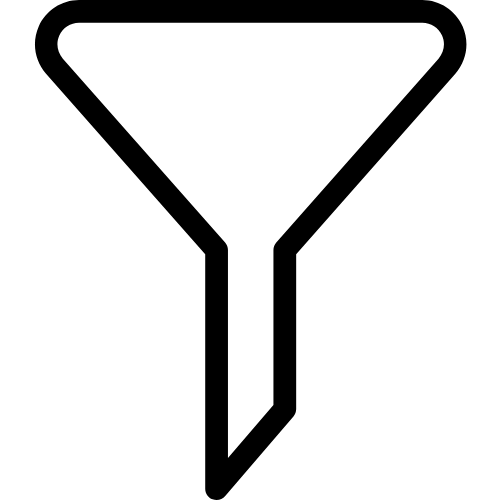
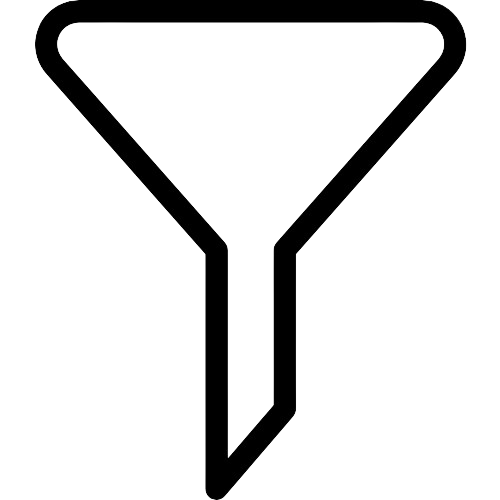
updated, inserted certifications on portfolio

Changed region(s): [[0.42, 0.99, 0.45, 1.0]]

diff --git a/pages/portfolio.html b/pages/portfolio.html
@@ -167,8 +167,7 @@
                         <input type="text" id="search-input" placeholder="Search projects..."
                             class="pl-10 pr-4 py-2 border border-gray-300 rounded-lg focus:outline-none focus:ring-2 focus:ring-secondary-500 focus:border-transparent w-64" />
                         <img src="../images/search.png" alt="Search"
-                            class="absolute left-3 top-1/2 transform -translate-y-1/2 w-4 h-4 text-gray-400"
-                            onerror="this.src='https://images.unsplash.com/photo-1584824486509-112e4181ff6b?q=80&w=2940&auto=format&fit=crop&ixlib=rb-4.0.3&ixid=M3wxMjA3fDB8MHxwaG90by1wYWdlfHx8fGVufDB8fHx8fA%3D%3D'; this.onerror=null;" />
+                            class="absolute left-3 top-1/2 transform -translate-y-1/2 w-4 h-4 text-gray-400" />
                     </div>
                     <button id="reset-filters"
                         class="px-4 py-2 text-text-secondary hover:text-primary transition-colors duration-200">
@@ -193,8 +192,7 @@
                     <!-- Project Image -->
                     <div class="h-96 lg:h-auto overflow-hidden">
                         <img src="https://images.unsplash.com/photo-1551288049-bebda4e38f71?q=80&w=2940&auto=format&fit=crop&ixlib=rb-4.0.3&ixid=M3wxMjA3fDB8MHxwaG90by1wYWdlfHx8fGVufDB8fHx8fA%3D%3D"
-                            alt="Disaster Preparedness Game" class="w-full h-full object-cover"
-                            onerror="this.src='https://images.unsplash.com/photo-1584824486509-112e4181ff6b?q=80&w=2940&auto=format&fit=crop&ixlib=rb-4.0.3&ixid=M3wxMjA3fDB8MHxwaG90by1wYWdlfHx8fGVufDB8fHx8fA%3D%3D'; this.onerror=null;" />
+                            alt="Disaster Preparedness Game" class="w-full h-full object-cover" />
                     </div>
 
                     <!-- Project Details -->
@@ -241,17 +239,13 @@
                         <div class="flex flex-col sm:flex-row gap-4">
                             <button class="btn-primary flex items-center justify-center"
                                 onclick="openProjectModal('disaster-game')">
-                                <img src="https://images.unsplash.com/photo-1460925895917-afdab827c52f?q=80&w=2940&auto=format&fit=crop&ixlib=rb-4.0.3&ixid=M3wxMjA3fDB8MHxwaG90by1wYWdlfHx8fGVufDB8fHx8fA%3D%3D"
-                                    alt="View" class="w-5 h-5 mr-2"
-                                    onerror="this.src='https://images.unsplash.com/photo-1584824486509-112e4181ff6b?q=80&w=2940&auto=format&fit=crop&ixlib=rb-4.0.3&ixid=M3wxMjA3fDB8MHxwaG90by1wYWdlfHx8fGVufDB8fHx8fA%3D%3D'; this.onerror=null;" />
+                                <img src="../images/search.png" alt="View" class="w-5 h-5 mr-2" />
                                 View Case Study
                             </button>
                             <a href="javascript:void(0)"
                                 class="inline-flex items-center justify-center px-6 py-3 border-2 border-primary text-primary font-semibold rounded-lg hover:bg-primary hover:text-white transition-all duration-300">
-                                <img src="https://images.unsplash.com/photo-1618401471353-b98afee0b2eb?q=80&w=2940&auto=format&fit=crop&ixlib=rb-4.0.3&ixid=M3wxMjA3fDB8MHxwaG90by1wYWdlfHx8fGVufDB8fHx8fA%3D%3D"
-                                    alt="GitHub" class="w-5 h-5 mr-2"
-                                    onerror="this.src='https://images.unsplash.com/photo-1584824486509-112e4181ff6b?q=80&w=2940&auto=format&fit=crop&ixlib=rb-4.0.3&ixid=M3wxMjA3fDB8MHxwaG90by1wYWdlfHx8fGVufDB8fHx8fA%3D%3D'; this.onerror=null;" />
-                                View on GitHub
+                                <img src="../images/search.png" alt="GitHub" class="w-5 h-5 mr-2" />
+                                View on Facebook
                             </a>
                         </div>
                     </div>
@@ -274,8 +268,7 @@
                     data-tech="unity,csharp" data-type="game" data-impact="education">
                     <div class="relative h-48 overflow-hidden">
                         <img src="https://images.unsplash.com/photo-1551288049-bebda4e38f71?q=80&w=2940&auto=format&fit=crop&ixlib=rb-4.0.3&ixid=M3wxMjA3fDB8MHxwaG90by1wYWdlfHx8fGVufDB8fHx8fA%3D%3D"
-                            alt="Disaster Preparedness Game" class="w-full h-full object-cover"
-                            onerror="this.src='https://images.unsplash.com/photo-1584824486509-112e4181ff6b?q=80&w=2940&auto=format&fit=crop&ixlib=rb-4.0.3&ixid=M3wxMjA3fDB8MHxwaG90by1wYWdlfHx8fGVufDB8fHx8fA%3D%3D'; this.onerror=null;" />
+                            alt="Disaster Preparedness Game" class="w-full h-full object-cover" />
                         <div class="absolute top-4 left-4">
                             <span class="px-2 py-1 bg-accent text-white rounded-full text-xs font-medium">Award
                                 Winner</span>
@@ -306,9 +299,7 @@
                                 <span class="font-medium text-accent">5,000+</span> Users Trained
                             </div>
                             <div class="flex items-center space-x-2">
-                                <img src="https://images.unsplash.com/photo-1618401471353-b98afee0b2eb?q=80&w=2940&auto=format&fit=crop&ixlib=rb-4.0.3&ixid=M3wxMjA3fDB8MHxwaG90by1wYWdlfHx8fGVufDB8fHx8fA%3D%3D"
-                                    alt="GitHub" class="w-4 h-4"
-                                    onerror="this.src='https://images.unsplash.com/photo-1584824486509-112e4181ff6b?q=80&w=2940&auto=format&fit=crop&ixlib=rb-4.0.3&ixid=M3wxMjA3fDB8MHxwaG90by1wYWdlfHx8fGVufDB8fHx8fA%3D%3D'; this.onerror=null;" />
+                                <img src="" alt="GitHub" class="w-4 h-4" />
                                 <span class="text-sm text-text-secondary">★ 47</span>
                             </div>
                         </div>
@@ -320,8 +311,7 @@
                     data-tech="php,mysql,bootstrap" data-type="web" data-impact="business">
                     <div class="relative h-48 overflow-hidden">
                         <img src="https://images.unsplash.com/photo-1541746972996-4e0b0f93e586?q=80&w=2940&auto=format&fit=crop&ixlib=rb-4.0.3&ixid=M3wxMjA3fDB8MHxwaG90by1wYWdlfHx8fGVufDB8fHx8fA%3D%3D"
-                            alt="University Management System" class="w-full h-full object-cover"
-                            onerror="this.src='https://images.unsplash.com/photo-1584824486509-112e4181ff6b?q=80&w=2940&auto=format&fit=crop&ixlib=rb-4.0.3&ixid=M3wxMjA3fDB8MHxwaG90by1wYWdlfHx8fGVufDB8fHx8fA%3D%3D'; this.onerror=null;" />
+                            alt="University Management System" class="w-full h-full object-cover" />
                         <div
                             class="absolute inset-0 bg-gradient-to-t from-black/50 to-transparent opacity-0 hover:opacity-100 transition-opacity duration-300">
                             <div class="absolute bottom-4 left-4 right-4">
@@ -348,9 +338,7 @@
                                 <span class="font-medium text-accent">2,500+</span> Students Managed
                             </div>
                             <div class="flex items-center space-x-2">
-                                <img src="https://images.unsplash.com/photo-1618401471353-b98afee0b2eb?q=80&w=2940&auto=format&fit=crop&ixlib=rb-4.0.3&ixid=M3wxMjA3fDB8MHxwaG90by1wYWdlfHx8fGVufDB8fHx8fA%3D%3D"
-                                    alt="GitHub" class="w-4 h-4"
-                                    onerror="this.src='https://images.unsplash.com/photo-1584824486509-112e4181ff6b?q=80&w=2940&auto=format&fit=crop&ixlib=rb-4.0.3&ixid=M3wxMjA3fDB8MHxwaG90by1wYWdlfHx8fGVufDB8fHx8fA%3D%3D'; this.onerror=null;" />
+                                <img src="" alt="GitHub" class="w-4 h-4" />
                                 <span class="text-sm text-text-secondary">★ 32</span>
                             </div>
                         </div>
@@ -361,9 +349,7 @@
                 <div class="project-card bg-white rounded-lg shadow-subtle hover:shadow-strong transition-all duration-300 overflow-hidden"
                     data-tech="javascript,php,mysql" data-type="research" data-impact="education">
                     <div class="relative h-48 overflow-hidden">
-                        <img src="https://images.unsplash.com/photo-1434030216411-0b793f4b4173?q=80&w=2940&auto=format&fit=crop&ixlib=rb-4.0.3&ixid=M3wxMjA3fDB8MHxwaG90by1wYWdlfHx8fGVufDB8fHx8fA%3D%3D"
-                            alt="Research Thesis" class="w-full h-full object-cover"
-                            onerror="this.src='https://images.unsplash.com/photo-1584824486509-112e4181ff6b?q=80&w=2940&auto=format&fit=crop&ixlib=rb-4.0.3&ixid=M3wxMjA3fDB8MHxwaG90by1wYWdlfHx8fGVufDB8fHx8fA%3D%3D'; this.onerror=null;" />
+                        <img src="" alt="Research Thesis" class="w-full h-full object-cover" />
                         <div class="absolute top-4 left-4">
                             <span class="px-2 py-1 bg-accent text-white rounded-full text-xs font-medium">Best
                                 Thesis</span>
@@ -394,9 +380,7 @@
                                 <span class="font-medium text-accent">Best Thesis</span> Award Winner
                             </div>
                             <div class="flex items-center space-x-2">
-                                <img src="https://images.unsplash.com/photo-1586281380349-632531db7ed4?q=80&w=2940&auto=format&fit=crop&ixlib=rb-4.0.3&ixid=M3wxMjA3fDB8MHxwaG90by1wYWdlfHx8fGVufDB8fHx8fA%3D%3D"
-                                    alt="Document" class="w-4 h-4"
-                                    onerror="this.src='https://images.unsplash.com/photo-1584824486509-112e4181ff6b?q=80&w=2940&auto=format&fit=crop&ixlib=rb-4.0.3&ixid=M3wxMjA3fDB8MHxwaG90by1wYWdlfHx8fGVufDB8fHx8fA%3D%3D'; this.onerror=null;" />
+                                <img src="" alt="Document" class="w-4 h-4" />
                                 <span class="text-sm text-text-secondary">PDF</span>
                             </div>
                         </div>
@@ -408,8 +392,7 @@
                     data-tech="javascript,php,bootstrap" data-type="web" data-impact="community">
                     <div class="relative h-48 overflow-hidden">
                         <img src="https://images.unsplash.com/photo-1517245386807-bb43f82c33c4?q=80&w=2940&auto=format&fit=crop&ixlib=rb-4.0.3&ixid=M3wxMjA3fDB8MHxwaG90by1wYWdlfHx8fGVufDB8fHx8fA%3D%3D"
-                            alt="Community Workshop Platform" class="w-full h-full object-cover"
-                            onerror="this.src='https://images.unsplash.com/photo-1584824486509-112e4181ff6b?q=80&w=2940&auto=format&fit=crop&ixlib=rb-4.0.3&ixid=M3wxMjA3fDB8MHxwaG90by1wYWdlfHx8fGVufDB8fHx8fA%3D%3D'; this.onerror=null;" />
+                            alt="Community Workshop Platform" class="w-full h-full object-cover" />
                         <div
                             class="absolute inset-0 bg-gradient-to-t from-black/50 to-transparent opacity-0 hover:opacity-100 transition-opacity duration-300">
                             <div class="absolute bottom-4 left-4 right-4">
@@ -436,9 +419,7 @@
                                 <span class="font-medium text-accent">500+</span> Participants
                             </div>
                             <div class="flex items-center space-x-2">
-                                <img src="https://images.unsplash.com/photo-1618401471353-b98afee0b2eb?q=80&w=2940&auto=format&fit=crop&ixlib=rb-4.0.3&ixid=M3wxMjA3fDB8MHxwaG90by1wYWdlfHx8fGVufDB8fHx8fA%3D%3D"
-                                    alt="GitHub" class="w-4 h-4"
-                                    onerror="this.src='https://images.unsplash.com/photo-1584824486509-112e4181ff6b?q=80&w=2940&auto=format&fit=crop&ixlib=rb-4.0.3&ixid=M3wxMjA3fDB8MHxwaG90by1wYWdlfHx8fGVufDB8fHx8fA%3D%3D'; this.onerror=null;" />
+                                <img src="" alt="GitHub" class="w-4 h-4" />
                                 <span class="text-sm text-text-secondary">★ 28</span>
                             </div>
                         </div>
@@ -450,8 +431,7 @@
                     data-tech="php,mysql,javascript" data-type="system" data-impact="business">
                     <div class="relative h-48 overflow-hidden">
                         <img src="https://images.unsplash.com/photo-1460925895917-afdab827c52f?q=80&w=2940&auto=format&fit=crop&ixlib=rb-4.0.3&ixid=M3wxMjA3fDB8MHxwaG90by1wYWdlfHx8fGVufDB8fHx8fA%3D%3D"
-                            alt="Inventory Management System" class="w-full h-full object-cover"
-                            onerror="this.src='https://images.unsplash.com/photo-1584824486509-112e4181ff6b?q=80&w=2940&auto=format&fit=crop&ixlib=rb-4.0.3&ixid=M3wxMjA3fDB8MHxwaG90by1wYWdlfHx8fGVufDB8fHx8fA%3D%3D'; this.onerror=null;" />
+                            alt="Inventory Management System" class="w-full h-full object-cover" />
                         <div
                             class="absolute inset-0 bg-gradient-to-t from-black/50 to-transparent opacity-0 hover:opacity-100 transition-opacity duration-300">
                             <div class="absolute bottom-4 left-4 right-4">
@@ -478,9 +458,7 @@
                                 <span class="font-medium text-accent">85%</span> Efficiency Gain
                             </div>
                             <div class="flex items-center space-x-2">
-                                <img src="https://images.unsplash.com/photo-1618401471353-b98afee0b2eb?q=80&w=2940&auto=format&fit=crop&ixlib=rb-4.0.3&ixid=M3wxMjA3fDB8MHxwaG90by1wYWdlfHx8fGVufDB8fHx8fA%3D%3D"
-                                    alt="GitHub" class="w-4 h-4"
-                                    onerror="this.src='https://images.unsplash.com/photo-1584824486509-112e4181ff6b?q=80&w=2940&auto=format&fit=crop&ixlib=rb-4.0.3&ixid=M3wxMjA3fDB8MHxwaG90by1wYWdlfHx8fGVufDB8fHx8fA%3D%3D'; this.onerror=null;" />
+                                <img src="" alt="GitHub" class="w-4 h-4" />
                                 <span class="text-sm text-text-secondary">★ 19</span>
                             </div>
                         </div>
@@ -492,8 +470,7 @@
                     data-tech="javascript,bootstrap" data-type="web" data-impact="education">
                     <div class="relative h-48 overflow-hidden">
                         <img src="https://images.unsplash.com/photo-1516321318423-f06f85e504b3?q=80&w=2940&auto=format&fit=crop&ixlib=rb-4.0.3&ixid=M3wxMjA3fDB8MHxwaG90by1wYWdlfHx8fGVufDB8fHx8fA%3D%3D"
-                            alt="Student Portal" class="w-full h-full object-cover"
-                            onerror="this.src='https://images.unsplash.com/photo-1584824486509-112e4181ff6b?q=80&w=2940&auto=format&fit=crop&ixlib=rb-4.0.3&ixid=M3wxMjA3fDB8MHxwaG90by1wYWdlfHx8fGVufDB8fHx8fA%3D%3D'; this.onerror=null;" />
+                            alt="Student Portal" class="w-full h-full object-cover" />
                         <div
                             class="absolute inset-0 bg-gradient-to-t from-black/50 to-transparent opacity-0 hover:opacity-100 transition-opacity duration-300">
                             <div class="absolute bottom-4 left-4 right-4">
@@ -521,9 +498,7 @@
                                 <span class="font-medium text-accent">1,200+</span> Active Users
                             </div>
                             <div class="flex items-center space-x-2">
-                                <img src="https://images.unsplash.com/photo-1618401471353-b98afee0b2eb?q=80&w=2940&auto=format&fit=crop&ixlib=rb-4.0.3&ixid=M3wxMjA3fDB8MHxwaG90by1wYWdlfHx8fGVufDB8fHx8fA%3D%3D"
-                                    alt="GitHub" class="w-4 h-4"
-                                    onerror="this.src='https://images.unsplash.com/photo-1584824486509-112e4181ff6b?q=80&w=2940&auto=format&fit=crop&ixlib=rb-4.0.3&ixid=M3wxMjA3fDB8MHxwaG90by1wYWdlfHx8fGVufDB8fHx8fA%3D%3D'; this.onerror=null;" />
+                                <img src="" alt="GitHub" class="w-4 h-4" />
                                 <span class="text-sm text-text-secondary">★ 35</span>
                             </div>
                         </div>
@@ -536,6 +511,180 @@
                 <button id="load-more-btn" class="btn-secondary">
                     Load More Projects
                 </button>
+            </div>
+
+        </div>
+    </section>
+    <!-- Verified Certifications Carousel -->
+    <section class="py-20 bg-gradient-to-br">
+        <div class="max-w-7xl mx-auto px-4 sm:px-6 lg:px-8">
+            <div class="text-center mb-16">
+                <h2 class="text-3xl lg:text-4xl font-bold text-primary mb-4">Verified Certifications</h2>
+                <p class="text-xl text-text-secondary">
+                    A curated collection of certifications from 2024 to 2025 earned through IBM, Microsoft, Cisco, and
+                    Udemy. These credentials span artificial intelligence, data science, cloud platforms, networking,
+                    software design, and programming—demonstrating a strong foundation in full-stack development and
+                    systems thinking.
+                </p>
+            </div>
+
+            <div class="grid grid-cols-1 sm:grid-cols-2 lg:grid-cols-3 gap-8">
+
+                <!-- Artificial Intelligence Fundamentals -->
+                <div class="bg-white p-6 rounded-lg shadow-md">
+                    <img src="../images/Certificate Badges/1.png" alt="Artificial Intelligence Fundamentals"
+                        class="w-full h-40 object-contain mb-4">
+                    <h3 class="text-lg font-semibold text-primary">Artificial Intelligence Fundamentals</h3>
+                    <p class="text-text-secondary mb-4"><strong>IBM (2025)</strong><br>
+                        Completed foundational training in Artificial Intelligence, covering key concepts in machine
+                        learning, neural networks, and real-world AI applications using Python.
+                    </p>
+                    <a href="https://www.credly.com/badges/3ef1b84d-3642-4f7e-acfb-86f8d4d5f89b" target="_blank"
+                        class="text-sm text-accent font-semibold hover:underline">View Credential</a>
+                </div>
+
+                <!-- Python for Data Science -->
+                <div class="bg-white p-6 rounded-lg shadow-md">
+                    <img src="../images/Certificate Badges/2.png" alt="Python for Data Science"
+                        class="w-full h-40 object-contain mb-4">
+                    <h3 class="text-lg font-semibold text-primary">Python for Data Science</h3>
+                    <p class="text-text-secondary mb-4"><strong>IBM (2025)</strong><br>
+                        Explored essential Python techniques for analyzing and visualizing data using Pandas, NumPy, and
+                        Matplotlib. Built a solid base for data-driven decision-making.
+                    </p>
+                    <a href="https://www.credly.com/badges/a2aa96d8-6492-49aa-a7ec-0343f9e32243" target="_blank"
+                        class="text-sm text-accent font-semibold hover:underline">View Credential</a>
+                </div>
+
+                <!-- Agile Explorer -->
+                <div class="bg-white p-6 rounded-lg shadow-md">
+                    <img src="../images/Certificate Badges/3.png" alt="Agile Explorer"
+                        class="w-full h-40 object-contain mb-4">
+                    <h3 class="text-lg font-semibold text-primary">Agile Explorer</h3>
+                    <p class="text-text-secondary mb-4"><strong>IBM (2025)</strong><br>
+                        Learned Agile development principles, Scrum methodology, and iterative delivery practices.
+                        Reinforced my ability to collaborate and deliver continuously.
+                    </p>
+                    <a href="https://www.credly.com/badges/b00edf45-3fbc-4b5c-aa83-04c79acd73f6" target="_blank"
+                        class="text-sm text-accent font-semibold hover:underline">View Credential</a>
+                </div>
+
+                <!-- User Experience Design Fundamentals -->
+                <div class="bg-white p-6 rounded-lg shadow-md">
+                    <img src="../images/Certificate Badges/4.png" alt="User Experience Design Fundamentals"
+                        class="w-full h-40 object-contain mb-4">
+                    <h3 class="text-lg font-semibold text-primary">User Experience Design Fundamentals</h3>
+                    <p class="text-text-secondary mb-4"><strong>IBM (2025)</strong><br>
+                        Gained practical skills in UX design, user-centered development, and usability testing to craft
+                        accessible, user-friendly digital experiences.
+                    </p>
+                    <a href="https://www.credly.com/badges/54231dc6-a438-4da7-a32d-5997fead5080" target="_blank"
+                        class="text-sm text-accent font-semibold hover:underline">View Credential</a>
+                </div>
+
+                <!-- Big Data Foundations - Level 1 -->
+                <div class="bg-white p-6 rounded-lg shadow-md">
+                    <img src="../images/Certificate Badges/5.png" alt="Big Data Foundations"
+                        class="w-full h-40 object-contain mb-4">
+                    <h3 class="text-lg font-semibold text-primary">Big Data Foundations - Level 1</h3>
+                    <p class="text-text-secondary mb-4"><strong>IBM (2024)</strong><br>
+                        Introduced to the Big Data ecosystem, including Hadoop and Spark. Focused on managing and
+                        extracting value from large-scale datasets.
+                    </p>
+                    <a href="https://www.credly.com/badges/5f9efc88-897f-40dd-a8a3-737d36266ffe" target="_blank"
+                        class="text-sm text-accent font-semibold hover:underline">View Credential</a>
+                </div>
+
+                <!-- Networking Basics -->
+                <div class="bg-white p-6 rounded-lg shadow-md">
+                    <img src="../images/Certificate Badges/6.png" alt="Networking Basics"
+                        class="w-full h-40 object-contain mb-4">
+                    <h3 class="text-lg font-semibold text-primary">Networking Basics</h3>
+                    <p class="text-text-secondary mb-4"><strong>Cisco (2024)</strong><br>
+                        Covered fundamentals of networking, including IP addressing, protocols, routing, and switching.
+                        Strengthened understanding of digital communication.
+                    </p>
+                    <a href="https://www.credly.com/badges/e15a9d9e-5d5c-4505-9dc3-11e54a8ef6de" target="_blank"
+                        class="text-sm text-accent font-semibold hover:underline">View Credential</a>
+                </div>
+
+                <!-- AZ-900 Microsoft Azure Fundamentals -->
+                <div class="bg-white p-6 rounded-lg shadow-md">
+                    <img src="../images/Certificate Badges/7.png" alt="AZ-900 Azure Fundamentals"
+                        class="w-full h-40 object-contain mb-4">
+                    <h3 class="text-lg font-semibold text-primary">AZ-900: Microsoft Azure Fundamentals</h3>
+                    <p class="text-text-secondary mb-4"><strong>Microsoft (2024)</strong><br>
+                        Built cloud fluency in core Azure services, security, pricing, and deployment models. Prepared
+                        to build cloud-native and hybrid applications.
+                    </p>
+                    <a href="https://www.credly.com/badges/99ec1e0d-2bd5-458a-9d72-ad1e3e510586" target="_blank"
+                        class="text-sm text-accent font-semibold hover:underline">View Credential</a>
+                </div>
+
+                <!-- Data Structures and Algorithms in Java -->
+                <div class="bg-white p-6 rounded-lg shadow-md">
+                    <img src="../images/Certificate Badges/8.png" alt="Data Structures and Algorithms in Java"
+                        class="w-full h-40 object-contain mb-4">
+                    <h3 class="text-lg font-semibold text-primary">Intro to Data Structures & Algorithms in Java</h3>
+                    <p class="text-text-secondary mb-4"><strong>Udemy (2024)</strong><br>
+                        Mastered key data structures and algorithmic patterns using Java. Improved problem-solving and
+                        coding interview readiness.
+                    </p>
+                    <a href="https://www.udemy.com/certificate/UC-d40e4aee-4fda-49b9-8688-8f1dbdf1b4e8/" target="_blank"
+                        class="text-sm text-accent font-semibold hover:underline">View Credential</a>
+                </div>
+
+                <!-- OOP in Java -->
+                <div class="bg-white p-6 rounded-lg shadow-md">
+                    <img src="../images/Certificate Badges/9.png" alt="Object-Oriented Programming in Java"
+                        class="w-full h-40 object-contain mb-4">
+                    <h3 class="text-lg font-semibold text-primary">Object-Oriented Programming in Java</h3>
+                    <p class="text-text-secondary mb-4"><strong>Udemy (2024)</strong><br>
+                        Learned the foundations of OOP: encapsulation, inheritance, abstraction, and polymorphism.
+                        Applied these in structured Java development.
+                    </p>
+                    <a href="https://www.udemy.com/certificate/UC-8f2c41e2-301c-495c-b890-86d866cca215/" target="_blank"
+                        class="text-sm text-accent font-semibold hover:underline">View Credential</a>
+                </div>
+
+                <!-- UML and Object-Oriented Design -->
+                <div class="bg-white p-6 rounded-lg shadow-md">
+                    <img src="../images/Certificate Badges/10.png" alt="UML and Object-Oriented Design"
+                        class="w-full h-40 object-contain mb-4">
+                    <h3 class="text-lg font-semibold text-primary">UML and Object-Oriented Design</h3>
+                    <p class="text-text-secondary mb-4"><strong>Udemy (2024)</strong><br>
+                        Learned to create UML diagrams like use case, class, and sequence diagrams. Modeled system
+                        architecture using OOP principles.
+                    </p>
+                    <a href="https://www.udemy.com/certificate/UC-3804bd43-45d9-4db2-80bb-512364e3b9e2/" target="_blank"
+                        class="text-sm text-accent font-semibold hover:underline">View Credential</a>
+                </div>
+
+                <!-- SQL with MySQL -->
+                <div class="bg-white p-6 rounded-lg shadow-md">
+                    <img src="../images/Certificate Badges/11.png" alt="SQL with MySQL" class="w-full h-40 object-contain mb-4">
+                    <h3 class="text-lg font-semibold text-primary">SQL - Introduction to SQL with MySQL</h3>
+                    <p class="text-text-secondary mb-4"><strong>Udemy (2024)</strong><br>
+                        Gained proficiency in SQL for querying and managing databases. Applied joins, filtering,
+                        aggregation, and schema management in MySQL.
+                    </p>
+                    <a href="https://www.udemy.com/certificate/UC-63a60716-6549-4cc8-9f5e-28aa3a2ec27f/" target="_blank"
+                        class="text-sm text-accent font-semibold hover:underline">View Credential</a>
+                </div>
+
+                <!-- Intro to PHP for Web Development -->
+                <div class="bg-white p-6 rounded-lg shadow-md">
+                    <img src="../images/Certificate Badges/12.png" alt="Intro to PHP for Web Development"
+                        class="w-full h-40 object-contain mb-4">
+                    <h3 class="text-lg font-semibold text-primary">Intro to PHP for Web Development</h3>
+                    <p class="text-text-secondary mb-4"><strong>Udemy (2024)</strong><br>
+                        Learned basic PHP scripting, form handling, and integration with MySQL. Developed dynamic
+                        websites with server-side functionality.
+                    </p>
+                    <a href="https://www.udemy.com/certificate/UC-ab7a63f8-c73d-4dc4-936c-f6617df10fc0/" target="_blank"
+                        class="text-sm text-accent font-semibold hover:underline">View Credential</a>
+                </div>
+
             </div>
         </div>
     </section>
